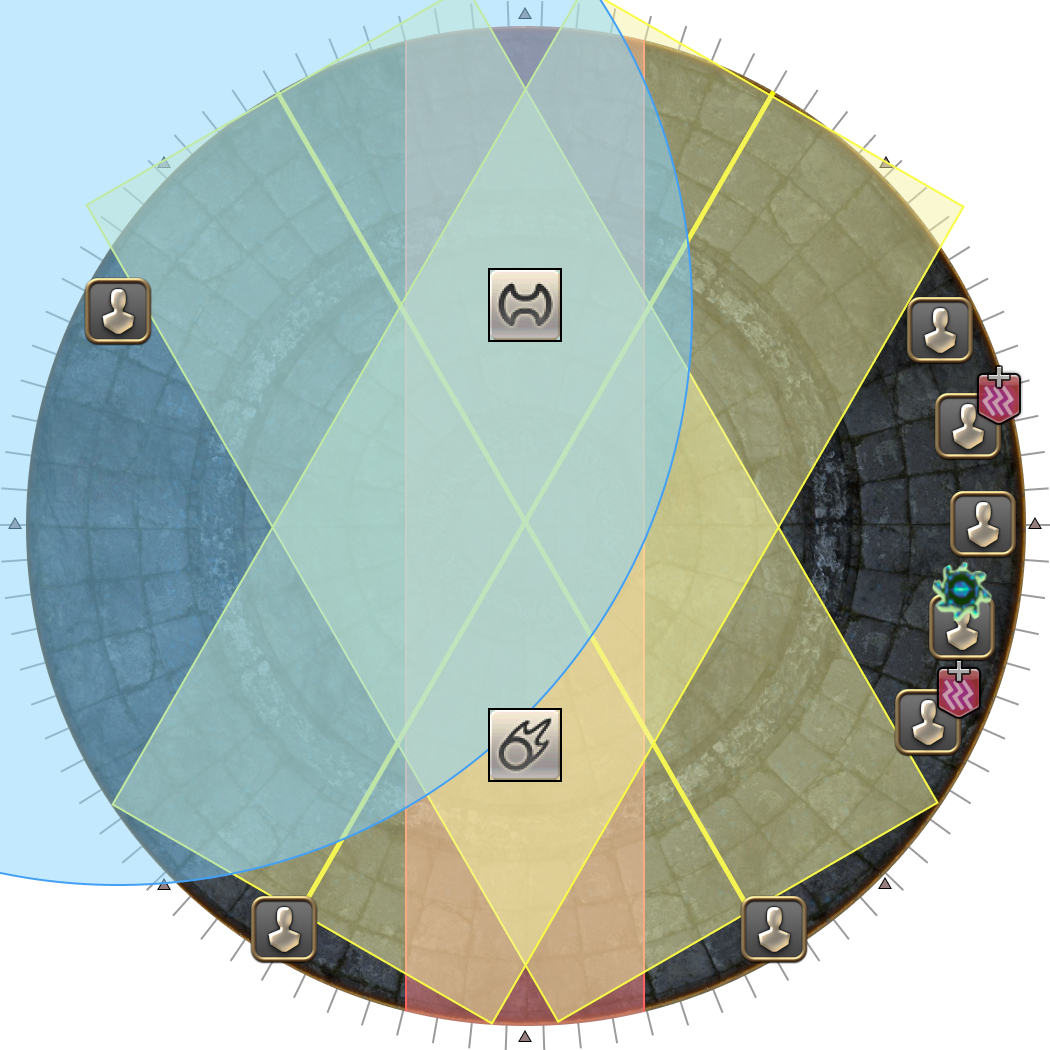
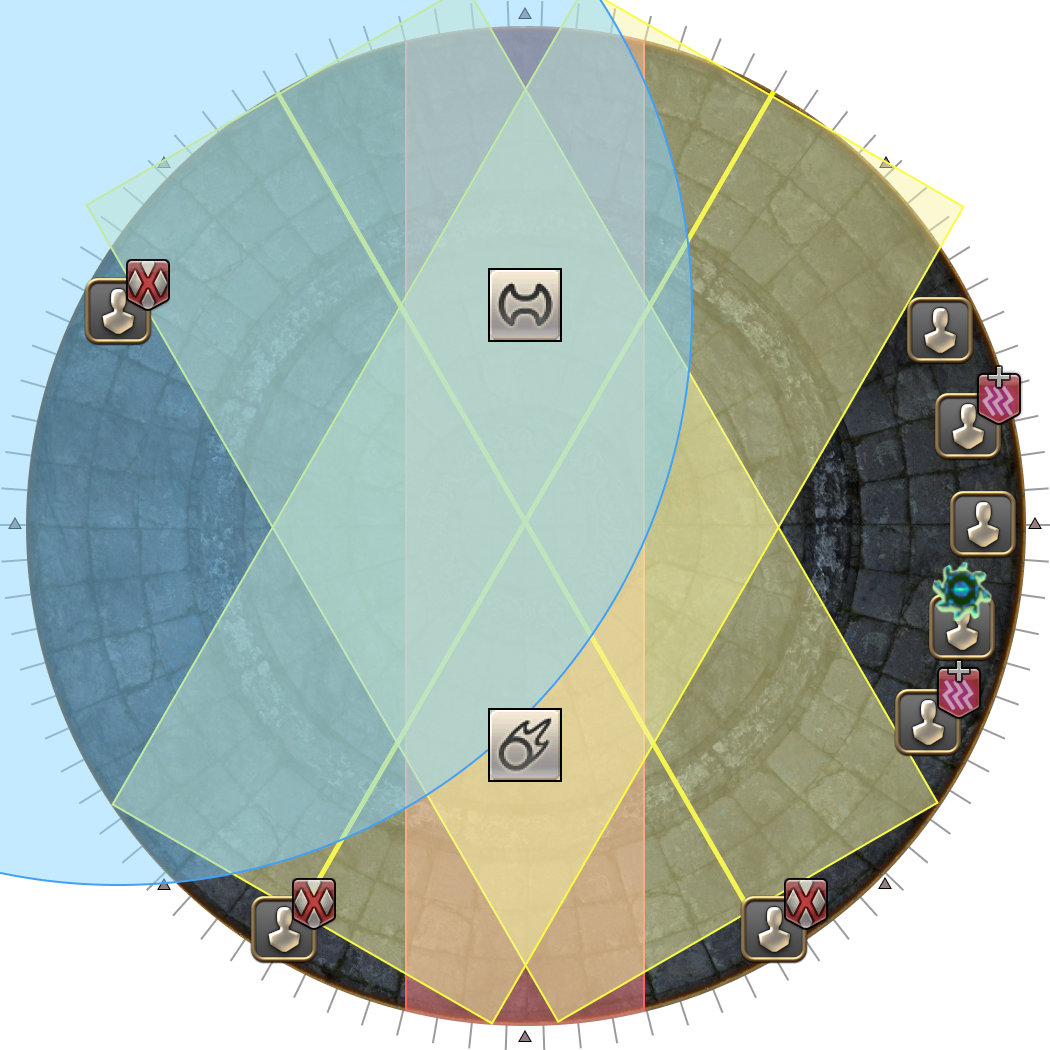
Clarify WotH details

Changed region(s): [[0.7314, 0.8229, 0.7924, 0.8838], [0.2743, 0.8229, 0.3352, 0.8838], [0.1219, 0.2438, 0.1829, 0.3048]]

diff --git a/ultimates/dsr/05_alternate_thordan.en.md b/ultimates/dsr/05_alternate_thordan.en.md
@@ -62,8 +62,9 @@ phase, *Wrath of the Heavens*.
   </tr>
   <tr>
     <td>
-      <p><b>3.</b> The AoEs resolve, and one of the five players along the east 
-      will get a green divebomb mark.</p>
+      <p><b>3.</b> The <em>Skyward Leap</em> and <em>Spiral Thrust</em> AoEs 
+      resolve (applying <em>Magic Vulnerability Up</em> on their targets), and
+      one of the five players along the east will get a green divebomb mark.</p>
       <p><b>All players move to dodge Twisters.</b></p>
     </td>
     <td><img src="{{site.baseurl}}/assets/images/ultimates/dsr/05/wrath_of_the_heavens_03.jpg"></td>
@@ -117,7 +118,8 @@ phase, *Wrath of the Heavens*.
       </ul>
       <p>The player on the east with <em>Liquid Heaven</em> should try to
       <b>enter the safe spot from the side</b>, as a player on the west side
-      will be one-shot if they get hit by the <em>Liquid Heaven</em> AoE.</p>
+      will be one-shot if they get hit by the <em>Liquid Heaven</em> AoE (as
+      they each have <em>Magic Vulnerability Up</em>).</p>
     </td>
     <td><img src="{{site.baseurl}}/assets/images/ultimates/dsr/05/wrath_of_the_heavens_06.jpg"></td>
   </tr>
@@ -210,7 +212,7 @@ splits the Dooms 2-2.
       <p><b>Doomed players:</b></p>
       <ul>
         <li>The east/west Doomed players will bait the circle marks by being
-        the two furthest Doomed players.</li>
+        the two Doomed players furthest from one another.</li>
         <li>The two other Doomed players take up position towards SW and SE.</li>
       </ul>
       <p><b>Non-Doomed players:</b></p>
